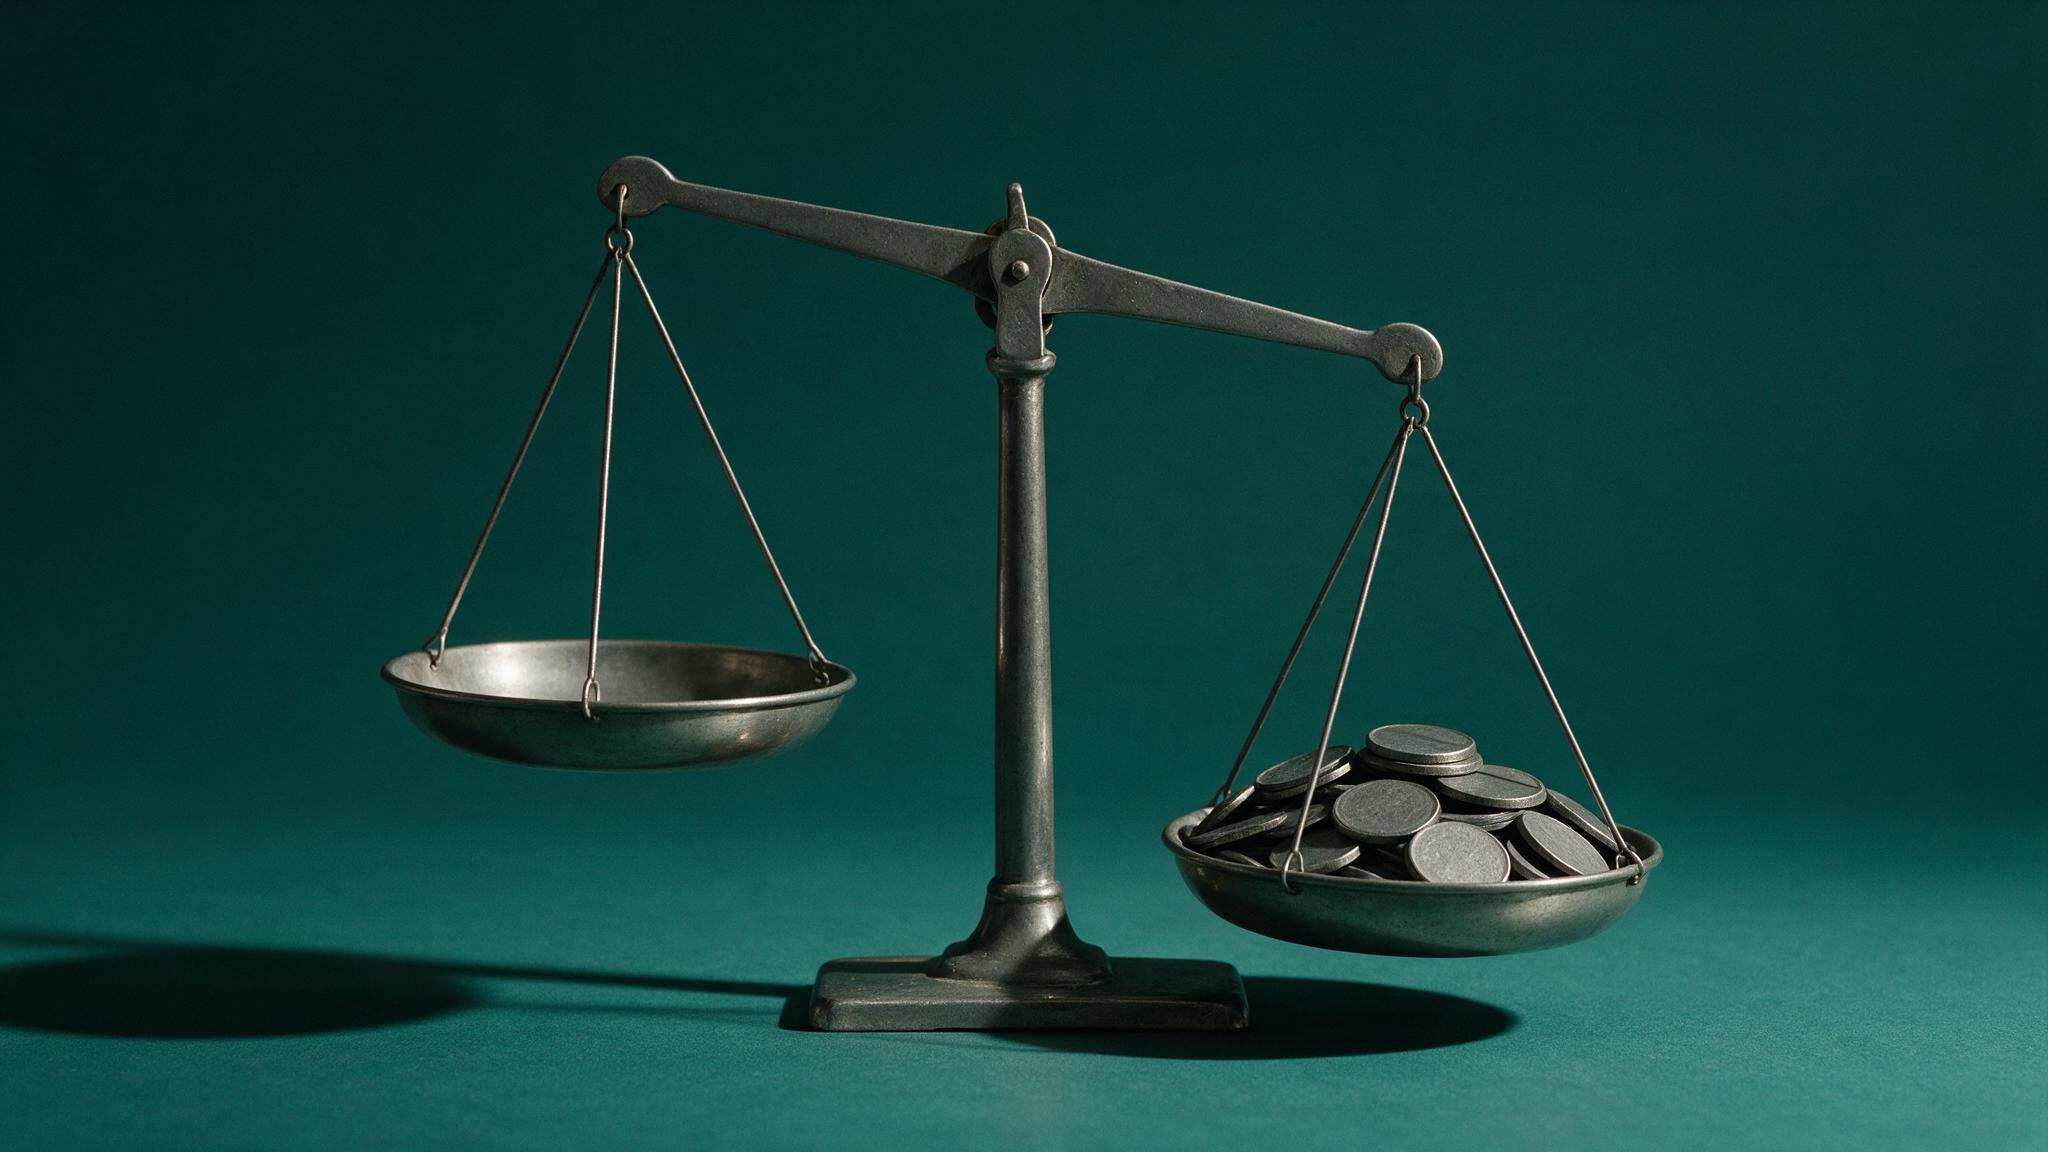
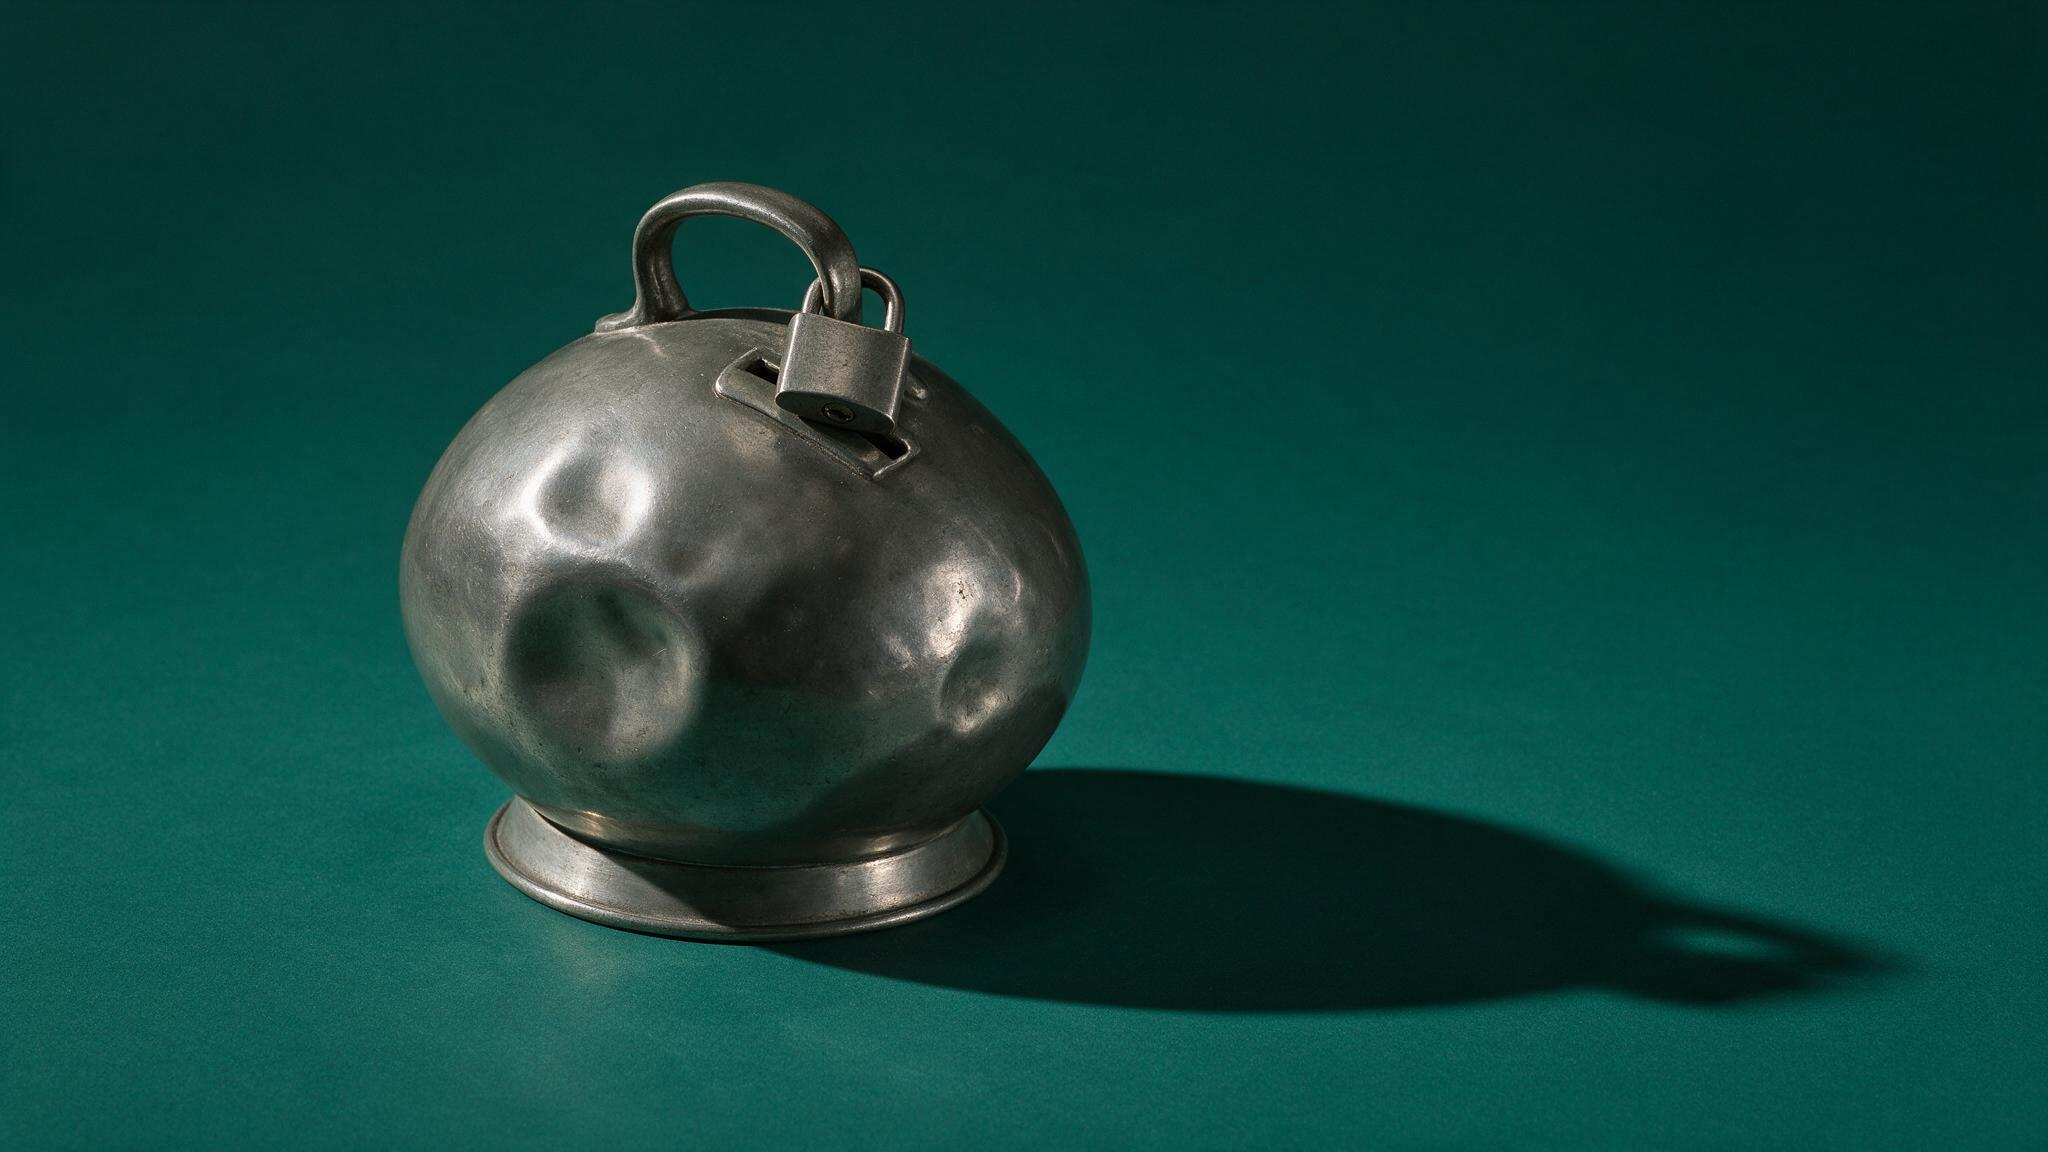
Publica columna: La paz que se cobra

diff --git a/index.html b/index.html
@@ -256,7 +256,7 @@
 </footer>
 
 <script>
-const COLUMNAS = [{"t": "La paz que se cobra", "d": "Cuando un territorio se pacifica de verdad, todas las violencias ceden a la vez. Si una cede mientras otra se dispara, lo que hubo no fue pacificación: fue reparto.", "img": "la-paz-que-se-cobra-portada.jpg", "href": "la-paz-que-se-cobra.html", "fecha": "25 de agosto de 2026", "min": "7 min de lectura", "tema": "Nacional · Seguridad", "nueva": true}, {"t": "Nadie existe a propósito. ¿Vienes a ver la tele?", "d": "El nihilismo que se vende como rebeldia termina siempre en el mismo lugar: el sillon. Y la frase mas citada de la serie lo dice completa, si se lee hasta el final.", "img": "nadie-existe-a-proposito-portada.png", "href": "nadie-existe-a-proposito.html", "fecha": "24 de agosto de 2026", "min": "5 min de lectura", "tema": "Cultura · Nihilismo y poder"}, {"t": "El freno que no se escribió", "d": "Puebla votó una ley para adultos y un año después aplicaba a menores. Nadie votó esa extensión.", "img": "el-freno-que-no-se-escribio-portada.png", "href": "el-freno-que-no-se-escribio.html", "fecha": "23 de agosto de 2026", "min": "6 min de lectura", "tema": "Nacional · Estado de derecho"}, {"t": "El cobro no tiene partido", "d": "Bajaron los muertos y subió el cobro en los nueve estados donde Morena nunca ha gobernado. En los nueve, sin una sola excepción.", "img": "el-cobro-no-tiene-partido-portada.jpg", "href": "el-cobro-no-tiene-partido.html", "fecha": "22 de agosto de 2026", "min": "6 min de lectura", "tema": "Nacional · Seguridad"}, {"t": "El dueño sin llave", "d": "Nadie perdió su ahorro y nadie perdió su amparo. Lo que se perdió fue el tiempo, y en materia financiera el tiempo no es un accesorio del derecho: es su contenido.", "img": "el-dueno-sin-llave-portada.jpg", "href": "el-dueno-sin-llave.html", "fecha": "20 de agosto de 2026", "min": "9 min de lectura", "tema": "Nacional · Justicia"}];
+const COLUMNAS = [{"t": "La paz que se cobra", "d": "Cuando un territorio se pacifica de verdad, todas las violencias ceden a la vez. Si una cede mientras otra se dispara, lo que hubo no fue pacificación: fue reparto.", "img": "la-paz-que-se-cobra-portada.jpg", "href": "la-paz-que-se-cobra.html", "fecha": "28 de agosto de 2026", "min": "7 min de lectura", "tema": "Nacional · Seguridad", "nueva": true}, {"t": "Nadie existe a propósito. ¿Vienes a ver la tele?", "d": "El nihilismo que se vende como rebeldia termina siempre en el mismo lugar: el sillon. Y la frase mas citada de la serie lo dice completa, si se lee hasta el final.", "img": "nadie-existe-a-proposito-portada.png", "href": "nadie-existe-a-proposito.html", "fecha": "24 de agosto de 2026", "min": "5 min de lectura", "tema": "Cultura · Nihilismo y poder"}, {"t": "El freno que no se escribió", "d": "Puebla votó una ley para adultos y un año después aplicaba a menores. Nadie votó esa extensión.", "img": "el-freno-que-no-se-escribio-portada.png", "href": "el-freno-que-no-se-escribio.html", "fecha": "23 de agosto de 2026", "min": "6 min de lectura", "tema": "Nacional · Estado de derecho"}, {"t": "El cobro no tiene partido", "d": "Bajaron los muertos y subió el cobro en los nueve estados donde Morena nunca ha gobernado. En los nueve, sin una sola excepción.", "img": "el-cobro-no-tiene-partido-portada.jpg", "href": "el-cobro-no-tiene-partido.html", "fecha": "22 de agosto de 2026", "min": "6 min de lectura", "tema": "Nacional · Seguridad"}, {"t": "El dueño sin llave", "d": "Nadie perdió su ahorro y nadie perdió su amparo. Lo que se perdió fue el tiempo, y en materia financiera el tiempo no es un accesorio del derecho: es su contenido.", "img": "el-dueno-sin-llave-portada.jpg", "href": "el-dueno-sin-llave.html", "fecha": "20 de agosto de 2026", "min": "9 min de lectura", "tema": "Nacional · Justicia"}];
 const PORTADAS = ["agua-cobra-repara-portada.webp", "aritmetica-del-poder-portada.webp", "cobran-por-existir.svg", "banco-que-se-audita-en-ingles.webp", "cuota-de-memoria.webp", "cero-pesos-diez-millones-portada.webp", "el-circulo.svg", "cerrar-el-circulo.webp", "el-cobro-no-tiene-partido-portada.webp", "cien-por-ciento.webp", "el-mapa-que-ves-esta-mal-a-proposito-portada.webp", "corrido-apocrifo.webp", "el-prestamo-que-nadie-necesitaba-portada.webp", "corte-ampara-banco.webp", "el-semestre-que-subio-portada.webp", "cuatro-cifras-portada.webp", "enemigos-barril.svg", "el-arresto-y-la-marea-portada.webp", "estado-de-derecho.svg", "el-chupacabras-no-chupaba-cabras-portada.webp", "fe-publica.webp", "el-dolar-mas-honesto-portada.webp", "gotham-portada.webp", "el-dueno-sin-llave-portada.webp", "impuesto-miedo.svg", "el-freno-que-no-se-escribio-portada.webp", "la-avenida-que-se-paga-sola-portada.webp", "el-mercado-de-nadie-portada.webp", "la-casa-siempre-gana-portada.webp", "el-robo-que-se-llama-vandalismo-portada.webp", "la-cuenta-de-la-basura-portada.webp", "el-tren-que-trae-lo-que-no-deberia-portada.webp", "la-nube-tiene-sed-portada.webp", "el-ultimo-cerrojo-portada.webp", "legalismo-coartada.svg", "donde-no-hay-hambre.webp", "los-10000-pasos-que-te-vendieron-portada.webp", "incertidumbre-tecnologia-portada.webp", "marcha-veinte-mil.svg", "dormir-en-tijuana.webp", "mexico-86.svg", "indignacion-selectiva.webp", "el-doctorado-de-cortesia-portada.webp", "morelos-subcampeon.svg", "amparo-silencio.webp", "la-medicina-que-no-llego-portada.webp", "el-empate-que-vale-mas-que-la-copa-portada.webp", "no-era-solo-la-basura-portada.webp", "banderazo-lluvia.webp", "la-naturaleza-que-inventamos-portada.webp", "el-peaje-tren-maya-portada.webp", "pantalla-cautiva.svg", "carne-de-coartada.webp", "la-nube-tiene-dueno-portada.webp", "quien-decide-portada.webp", "pastilla-kelley.svg", "cifra-trofeo.webp", "la-paz-prestada-del-mundial-portada.webp", "seg-angulo.webp", "paz-que-no-cuenta.webp", "color-seguridad.webp", "la-paz-que-se-cobra-portada.webp", "seg-como_leer.webp", "pintando-no-se-ve.svg", "cosmos-en-preventa.webp", "la-rebaja-del-45-portada.webp", "seg-figueroa40.webp", "que-estado-auditar.webp", "el-pais-que-no-se-cuenta-portada.webp", "mundial-al-reves.webp", "cincuenta-millones-portada.webp", "seg-harfuch62.webp", "rey-de-ratas.svg", "futuro-liquidacion-portada.webp", "nadie-existe-a-proposito-portada.webp", "cuenta-puente-portada.webp", "sobre-castillo-portada.webp", "sabios.svg", "la-justicia-se-arranca.webp", "seg-rnpdno.webp", "dos-cobradores-portada.webp", "tienda-de-raya-portada.webp", "silla-del-acusado.webp", "partido-que-no-televisan.webp", "soaps-tesoreria-portada.webp", "el-municipio-que-copio-al-crimen-portada.webp", "tormenta-perfecta-portada.webp", "tormenta-frijol.svg", "quien-considera-portada.webp", "soldado-boleta.webp", "la-aduana-de-verde-olivo-portada.webp", "una-captura-portada.webp", "zona-ciega.webp", "seg-aritmetica.webp", "timo-transparencia.webp", "renta-del-recuerdo.webp", "victima-ilegible.webp"];
 </script>
 <script src="portada.js"></script>

diff --git a/todas.html b/todas.html
@@ -97,7 +97,7 @@
   </div>
   <p class="cuantas" id="cuantas"></p>
   <div class="mural-grid" id="rejilla">
-    <a class="mural-t grande" href="la-paz-que-se-cobra.html" data-cat="seguridad" data-date="2026-08-25" data-title="cuautla morelos extorsion primer lugar nacional tasa por cien mil habitantes 133.6 salamanca guanajuato paz narca radar de consolidacion criminal homicidio doloso narcomenudeo delitos de administracion sesnsp incidencia delictiva fuero comun carpetas de investigacion base municipal conapo proyecciones de poblacion inegi defunciones registradas envipe cifra negra denuncia diego gambetta the sicilian mafia the business of private protection guillermo trejo sandra ley votes drugs and violence angelica duran-martinez the politics of drug violence fiscalia de morelos plaza en disputa guerra abierta paz o silencio sinaloa culiacan san luis potosi rioverde ciudad valles 315 municipios 32 estados ventana 2023 2025 indicador propio metodo abierto refutable inseguridad mexico 45 digital noticias">
+    <a class="mural-t grande" href="la-paz-que-se-cobra.html" data-cat="seguridad" data-date="2026-08-28" data-title="cuautla morelos extorsion primer lugar nacional tasa por cien mil habitantes 133.6 salamanca guanajuato paz narca radar de consolidacion criminal homicidio doloso narcomenudeo delitos de administracion sesnsp incidencia delictiva fuero comun carpetas de investigacion base municipal conapo proyecciones de poblacion inegi defunciones registradas envipe cifra negra denuncia diego gambetta the sicilian mafia the business of private protection guillermo trejo sandra ley votes drugs and violence angelica duran-martinez the politics of drug violence fiscalia de morelos plaza en disputa guerra abierta paz o silencio sinaloa culiacan san luis potosi rioverde ciudad valles 315 municipios 32 estados ventana 2023 2025 indicador propio metodo abierto refutable inseguridad mexico 45 digital noticias">
       <img src="thumbs/la-paz-que-se-cobra-portada.webp" alt="" loading="lazy" decoding="async">
       <figcaption><span class="tema">Seguridad</span>La paz que se cobra</figcaption>
     </a>

diff --git a/la-paz-que-se-cobra.html b/la-paz-que-se-cobra.html
@@ -59,8 +59,8 @@
     "@id": "https://45digitalnoticias.github.io/columnas/la-paz-que-se-cobra.html"
   },
   "image": "https://45digitalnoticias.github.io/columnas/og-la-paz-que-se-cobra.png",
-  "datePublished": "2026-08-25",
-  "dateModified": "2026-08-25"
+  "datePublished": "2026-08-28",
+  "dateModified": "2026-08-28"
 }
 </script>
 <link rel="icon" href="https://45digitalnoticias.github.io/columnas/favicon-192.png">
